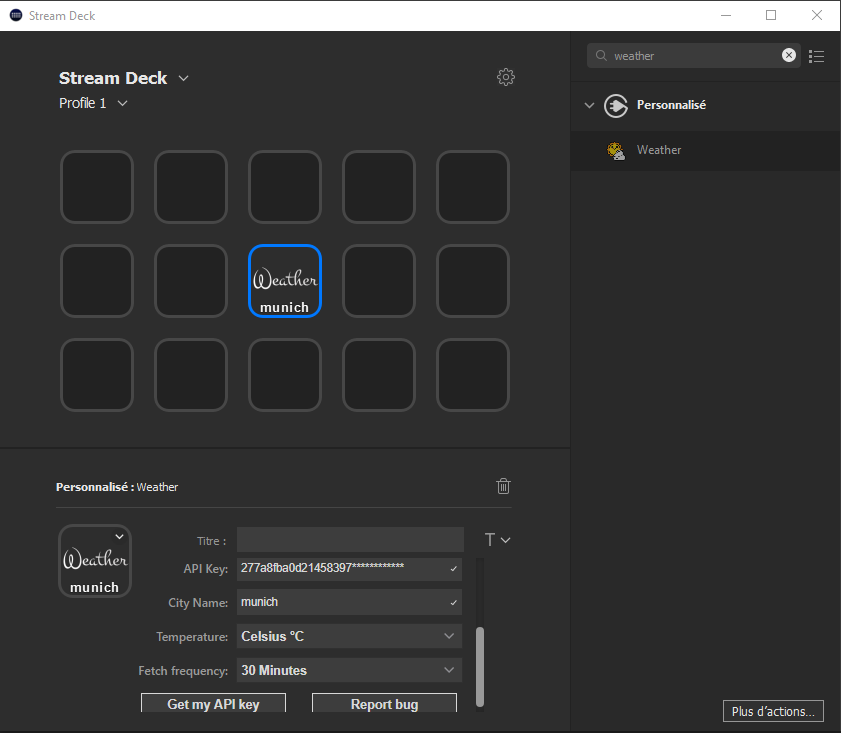
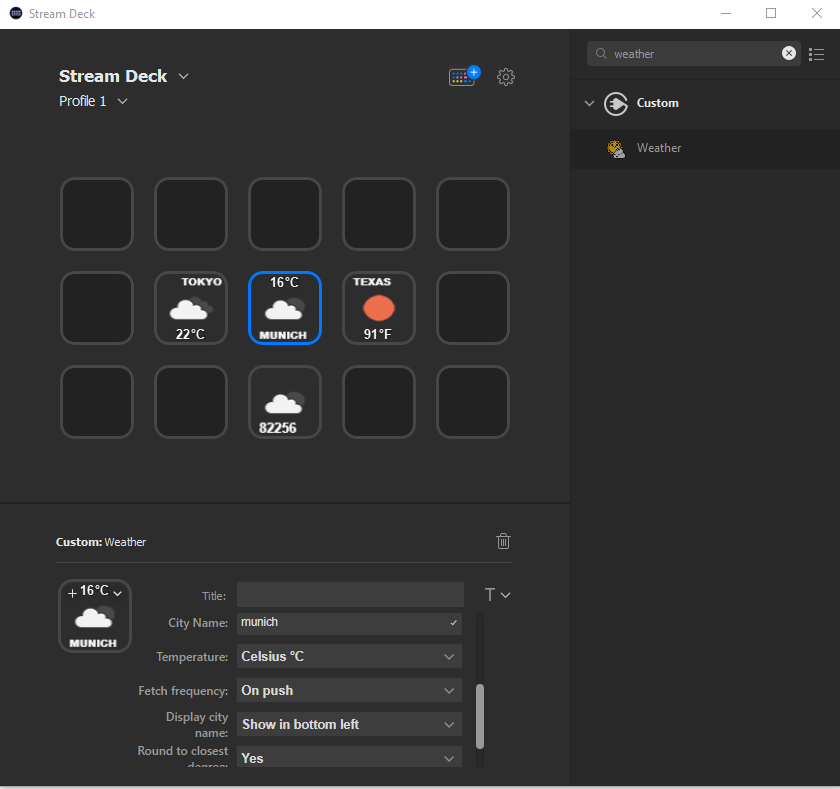
v2.1.2 rounding temperature digits

diff --git a/Sources/com.jk.weather.sdPlugin/pi/main_pi.html b/Sources/com.jk.weather.sdPlugin/pi/main_pi.html
@@ -7,7 +7,7 @@
     <script src="main_pi.js"></script>
   </head>
 
-  <body>
+  <body onload="updateSettings();updateGlobal();">
     <div class="sdpi-wrapper hidden">
       <div class="sdpi-item" id="apiProviderContainer">
         <div class="sdpi-item-label">Provider</div>

diff --git a/README.md b/README.md
@@ -1,7 +1,7 @@
 
 # Weather
 
-[![badge](https://img.shields.io/endpoint?url=https://gist.githubusercontent.com/JaouherK/a489177df4f24946281bdc1b21524b13/raw/62c6d31dc218a9c26d4dbe62c430bf46914bf6a3/weatherMetaData.json)](https://github.com/JaouherK/streamDeck-weatherPlugin/releases/tag/v2.1.1)
+[![badge](https://img.shields.io/endpoint?url=https://gist.githubusercontent.com/JaouherK/a489177df4f24946281bdc1b21524b13/raw/79aacf61a7e32fe2e597f3f1980df1029d54894a/weatherMetaData.json)](https://github.com/JaouherK/streamDeck-weatherPlugin/releases/tag/v2.1.2)
 
 `Weather` is a plugin that displays the weather condition as a picture image, the city name and the temperature of a given location. It is connected to multiple providers and needs an API Key to connect.
 
@@ -23,6 +23,8 @@ The button is configured as follows:
 - City Name: the city for which the information will be displayed on the button
 - Temperature: the temperature unit ( Celsius or Fahrenheit)
 - Fetch frequency: how often the data is updated (beware for free accounts the limits set by the provider)
+- Display city name: Provides the possibility choose where to display the city name (also if we need to hide it)
+- Round to nearest degree: Provides the possibility to show / hide digits after decimal point
 - "Get my API key" button: to retrieve the key for your account
 - "Report bug" button: to report a bug
 
@@ -33,6 +35,7 @@ The button is configured as follows:
 - Choice of Weather provider
 - Choose temperature unit
 - choose fetching frequency of the weather data
+- Weather condition icon fit to display
 
 ![screen](screenshot.png)
 

diff --git a/CHANGELOG.md b/CHANGELOG.md
@@ -5,6 +5,17 @@ All notable changes to this project will be documented in this file.
 The format is based on [Keep a Changelog](https://keepachangelog.com/en/1.0.0/),
 and this project adheres to [Semantic Versioning](https://semver.org/spec/v2.0.0.html).
 
+## [2.1.2] - 2020-06-25
+
+### Added
+
+- New setting to round to nearest integer value of temperature by @thepaulstella
+
+### Changed
+
+- Force load settings on page start
+- Update screenshot
+
 ## [2.1.1] - 2020-05-23
 
 ### Added
@@ -83,3 +94,4 @@ and this project adheres to [Semantic Versioning](https://semver.org/spec/v2.0.0
 [2.0.2]: https://github.com/JaouherK/streamDeck-weatherPlugin/releases/tag/v2.0.2
 [2.1.0]: https://github.com/JaouherK/streamDeck-weatherPlugin/releases/tag/v2.1.0
 [2.1.1]: https://github.com/JaouherK/streamDeck-weatherPlugin/releases/tag/v2.1.1
+[2.1.2]: https://github.com/JaouherK/streamDeck-weatherPlugin/releases/tag/v2.1.2
